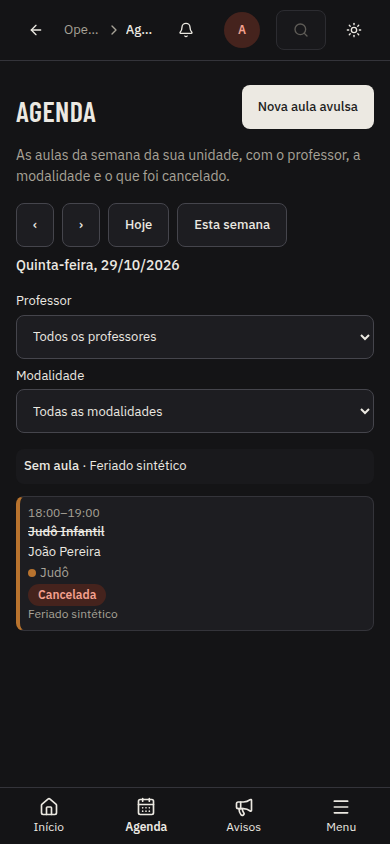
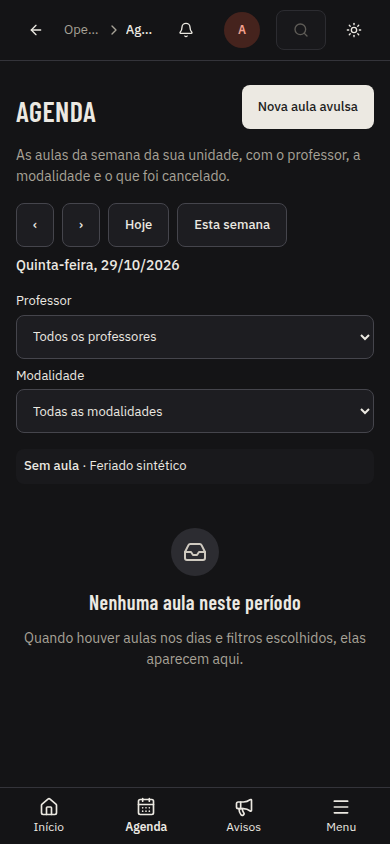
#442: MSW: agenda do Professor devolve todas as aulas da unidade (#510)

Changed region(s): [[0.0308, 0.5853, 0.9538, 0.8009], [0.4615, 0.6469, 0.5231, 0.6777]]

diff --git a/frontend/src/mocks/handlers.ts b/frontend/src/mocks/handlers.ts
@@ -618,6 +618,9 @@ const mockLesson = (c: MockClass, unit: { id: string; name: string }, date: stri
     canCancel: !cancelled && future,
   };
 };
+// RN-AGE-07: o Professor só alcança a aula em que é o professor, ou da turma da qual é titular ou auxiliar (o do mock é sempre o TEACHER_ANA).
+const teachesLesson = (klass: MockClass | null, teacherId: string) =>
+  teacherId === TEACHER_ANA || (!!klass && (klass.head === TEACHER_ANA || klass.assistants.includes(TEACHER_ANA)));
 const classFor = (id: string) => {
   if (!loggedIn) return unauthenticated();
   const role = activeRole();
@@ -633,6 +636,7 @@ const lessonView = (id: string) => {
   if (adhoc) {
     const today = todayLocal();
     const { canEdit, canCancel, ...lesson } = applyEdit(adhocLesson(adhoc, today));
+    if (role === "TEACHER" && !teachesLesson(null, lesson.teacher.id)) return error(404, "NOT_FOUND", "Não encontrado.");
     const visible = adhoc.visibilityClassId ? mockClasses.find((k) => k.id === adhoc.visibilityClassId) : undefined;
     const detail = {
       ...lesson,
@@ -641,8 +645,8 @@ const lessonView = (id: string) => {
       activeStudents: 0,
       trialClasses: 0,
       groupLink: null,
-      canEdit: role === "TEACHER" ? false : canEdit,
-      canCancel: role === "TEACHER" ? false : canCancel,
+      canEdit,
+      canCancel,
       canViewClass: false,
       followingEdited: 0,
     };
@@ -656,6 +660,7 @@ const lessonView = (id: string) => {
   const now = new Date();
   const today = `${now.getFullYear()}-${String(now.getMonth() + 1).padStart(2, "0")}-${String(now.getDate()).padStart(2, "0")}`;
   const { canEdit, canCancel, ...lesson } = applyEdit(mockLesson(c, unit, m[2], slot[0], slot[1], slot[2], today));
+  if (role === "TEACHER" && !teachesLesson(c, lesson.teacher.id)) return error(404, "NOT_FOUND", "Não encontrado.");
   const detail = {
     ...lesson,
     visibilityClass: null,
@@ -663,8 +668,8 @@ const lessonView = (id: string) => {
     activeStudents: 0,
     trialClasses: 0,
     groupLink: c.groupLink ?? null,
-    canEdit: role === "TEACHER" ? false : canEdit,
-    canCancel: role === "TEACHER" ? false : canCancel,
+    canEdit,
+    canCancel,
     canViewClass: role !== "TEACHER",
     // RN-AGE-04: edições à mão (ainda agendadas) das aulas seguintes da turma, que "esta e as seguintes" substituiria.
     followingEdited: [...lessonEdits.entries()].filter(([key, e]) => key.startsWith(`${c.id}-`) && !e.cancelCode && key.slice(c.id.length + 1, c.id.length + 11) > m[2]).length,
@@ -3001,6 +3006,7 @@ export const routes: Route[] = [
           for (const [wd, startsAt, endsAt] of c.schedule.filter(([d]) => d === weekday)) {
             const lesson = applyEdit(mockLesson(c, unit, date, wd, startsAt, endsAt, today));
             if ((teacherId && lesson.teacher.id !== teacherId) || (modalityId && lesson.modality.id !== modalityId)) continue;
+            if (role === "TEACHER" && !teachesLesson(c, lesson.teacher.id)) continue;
             lessons.push(lesson);
           }
         }
@@ -3008,6 +3014,7 @@ export const routes: Route[] = [
       for (const a of mockAdhoc.filter((x) => x.unitId === unit.id && x.date >= from && x.date <= to)) {
         const lesson = applyEdit(adhocLesson(a, today));
         if ((teacherId && lesson.teacher.id !== teacherId) || (modalityId && lesson.modality.id !== modalityId)) continue;
+        if (role === "TEACHER" && !teachesLesson(null, lesson.teacher.id)) continue;
         lessons.push(lesson);
       }
       const noClassDays = [

diff --git a/frontend/src/mocks/agenda.msw.test.ts b/frontend/src/mocks/agenda.msw.test.ts
@@ -60,6 +60,38 @@ describe("agenda x OpenAPI (RF-AGE-01, CA17)", () => {
   });
 });
 
+describe("agenda do Professor (RN-AGE-07)", () => {
+  const ana = "00000000-0000-0000-0000-000000000501";
+  type L = { id: string; class: { name: string } | null; teacher: { id: string }; canEdit: boolean; canCancel: boolean };
+  const next = () => `from=${addDays(todayIso(), 1)}&to=${addDays(todayIso(), 14)}`;
+  const lessons = async (q = week()): Promise<L[]> => (await (await get(q)).json()).lessons;
+
+  it("Professor lista só as dele; Coordenação e Administrador listam todas", async () => {
+    await login("prof@exemplo.com");
+    const mine = await lessons();
+    expect(mine.length).toBeGreaterThan(0);
+    expect(mine.some((l) => l.class?.name === "Judô Infantil")).toBe(false);
+    expect(mine.every((l) => l.class?.name === "Jiu-Jitsu Adulto" || l.teacher.id === ana)).toBe(true);
+    for (const email of ["ana@exemplo.com", "admin@exemplo.com"]) {
+      await login(email);
+      expect((await lessons()).some((l) => l.class?.name === "Judô Infantil")).toBe(true);
+    }
+  });
+
+  it("detalhe alheio 404, o dele 200 com canEdit e canCancel; filtro por outro professor vem vazio", async () => {
+    await login("ana@exemplo.com");
+    const other = (await lessons(next())).find((l) => l.class?.name === "Judô Infantil")!;
+    await login("prof@exemplo.com");
+    const own = (await lessons(next())).find((l) => l.canEdit)!;
+    expect(own.canCancel).toBe(true);
+    expect((await fetch(`/api/v1/agenda/lessons/${other.id}`)).status).toBe(404);
+    const res = await fetch(`/api/v1/agenda/lessons/${own.id}`);
+    expect(res.status).toBe(200);
+    expect(await res.json()).toMatchObject({ canEdit: true, canCancel: true });
+    expect(await lessons(`${next()}&teacherId=00000000-0000-0000-0000-0000000009ff`)).toEqual([]);
+  });
+});
+
 describe("painel da aula x OpenAPI (RF-AGE-02)", () => {
   const lessonOf = async (
     pick: (l: { substitute: boolean }) => boolean = () => true,
@@ -83,7 +115,7 @@ describe("painel da aula x OpenAPI (RF-AGE-02)", () => {
 
   it("Coordenador: corpo no formato do contrato; titular só na substituição; Professor sem canViewClass", async () => {
     await login("ana@exemplo.com");
-    const plain = await lessonOf((l) => !l.substitute);
+    const plain = await lessonOf((l) => !l.substitute && (l as unknown as { class: { name: string } }).class?.name === "Jiu-Jitsu Adulto");
     const res = await fetch(`/api/v1/agenda/lessons/${plain.id}`);
     expect(res.status).toBe(200);
     const detail = await res.json();

diff --git a/specs/itens/442-msw-agenda-professor.md b/specs/itens/442-msw-agenda-professor.md
@@ -1,0 +1,84 @@
+# 442 — MSW: agenda do Professor devolve todas as aulas da unidade
+
+Origem: issue #442 (Sprint 10.5, auditoria de telas do canvas, M85 / F1-06); RN-AGE-07 em `docs/especificacao/06-turmas-e-agenda.md`; tabela de permissões em `02-contas-e-acesso.md`. Branch: `item/442-msw-agenda-professor`.
+
+## 1. Objetivo
+
+O mock (MSW) passa a se comportar como o back-end: o Professor vê na agenda só as aulas em que é o professor da aula, o titular da turma ou auxiliar dela, e só nessas pode editar ou cancelar. Item técnico, só mock e teste; nenhuma regra de produto muda.
+
+Fora do escopo: back-end (já filtra em `Agenda.java`), o `POST /agenda/lessons` do mock (continua 403 para o Professor), tela da agenda, OpenAPI.
+
+## 2. Requisitos
+
+- R1: `GET /agenda` com papel Professor devolve só as aulas "dele" (professor da aula, titular da turma ou auxiliar da turma é o professor logado); os demais papéis recebem a lista inteira como hoje.
+- R2: `GET /agenda/lessons/{id}` de aula que não é do Professor devolve 404; Coordenador e Administrador não mudam.
+- R3: `canEdit` e `canCancel` do Professor só podem ser `true` nas aulas dele (e seguem as demais condições da aula, como estar agendada).
+- R4: o caso visual `moldura-professor` tem a referência regerada, mostrando só as aulas dele.
+
+## 3. Critérios de aceite
+
+- CA1 (R1): dado `prof@exemplo.com` (Ana, titular de "Jiu-Jitsu Adulto" e substituta/auxiliar nas demais regras do mock), quando lista a agenda de uma semana, então toda aula devolvida é de turma em que Ana é titular ou auxiliar, ou tem Ana como professor da aula, e "Judô Infantil" (titular João, sem auxiliares) não aparece.
+- CA2 (R1): dado `ana@exemplo.com` (Coordenação) e `admin@exemplo.com`, quando listam a mesma semana, então recebem as aulas de todas as turmas da unidade, inclusive "Judô Infantil".
+- CA3 (R2): dado `prof@exemplo.com`, quando abre `/agenda/lessons/{id}` de uma aula de "Judô Infantil", então 404; de uma aula dele, 200.
+- CA4 (R3): dado `prof@exemplo.com`, quando lista ou abre aula futura agendada dele, então `canEdit` e `canCancel` são `true`; aula alheia não é alcançável (CA1, CA3).
+- CA5 (R1): dado `prof@exemplo.com`, quando filtra por `teacherId` de outro professor, então a lista vem vazia (o filtro só estreita).
+- CA6 (R4): dado o teste visual, quando se regera só `moldura-professor`, então o diff mostra apenas aulas a menos.
+
+## 4. Plano técnico
+
+- Dados: não muda.
+- API: não muda o contrato; só o mock. `GET /agenda` e `GET /agenda/lessons/{id}` filtram por professor logado.
+- Interface: não muda código de tela. O botão "Nova aula avulsa" segue como está (D1).
+- Segurança: espelha a regra do servidor; a permissão continua conferida no back-end.
+- Arquivos:
+  - `frontend/src/mocks/handlers.ts`: criar um helper `teachesLesson(klass: MockClass | null, teacherId)` perto de `mockLesson` (linha ~596): `klass ? klass.head === ME || klass.assistants.includes(ME) : false` combinado com `lesson.teacher.id === ME`, com `ME = TEACHER_ANA` (id que o mock já usa para o Professor, ver linhas 1137, 1699, 3615). No resolver `/agenda` (linha ~2972) filtrar `lessons` (turmas e avulsas) quando `role === "TEACHER"`. Em `lessonView` (linha ~628) devolver 404 quando `role === "TEACHER"` e a aula não é dele; trocar `canEdit: role === "TEACHER" ? false : canEdit` (e `canCancel`) por `canEdit` direto, já que só aula dele chega ali. Lembrar que a lista também devolve `canEdit`/`canCancel` pelo `mockLesson`/`adhocLesson`, que já não dependem do papel.
+  - `frontend/src/mocks/agenda.msw.test.ts`: novos casos e ajuste do caso existente "titular só na substituição; Professor sem canViewClass" (hoje usa `plain`, que pode ser de outro professor e passaria a dar 404; passar a usar uma aula dele).
+  - `frontend/visual/referencias/moldura-professor-*.png` (4 arquivos): regerar só este caso.
+- Reuso: `TEACHER_ANA`, `activeRole`, `classRow`, `mockLesson`, `adhocLesson`, `lessonView`; os helpers `login`, `get`, `week` do teste.
+- Riscos: outros testes (unitários da agenda no front, e2e `@critical`, `varios@exemplo.com` com vínculo 13 como Professor) que contam com o Professor vendo tudo ou com `canEdit` falso; `npm test` e `npm run e2e` mostram. A semana corrente tem hoje como dia cancelado; usar semana seguinte nos testes que precisam de `canEdit`.
+
+## 5. Tarefas
+
+- [x] T1: filtro por professor em `GET /agenda` e `GET /agenda/lessons/{id}` e `canEdit`/`canCancel` pelo dono da aula — cobre CA1, CA2, CA3, CA4, CA5 — prova: `cd frontend && npx vitest run src/mocks/agenda.msw.test.ts`
+- [x] T2: testes novos (prof lista só as dele; ana e admin listam todas; detalhe alheio 404; canEdit dele true; filtro por outro professor vazio) e ajuste do caso existente; conferir que falham sem a correção — cobre CA1 a CA5 — prova: mesma classe de teste
+- [x] T3: rodar `npm test` e `npm run lint && npm run typecheck`; corrigir testes do front que dependiam do Professor ver tudo — não cobre critério: regressão do mock — prova: `cd frontend && npm test`
+- [x] T4: regerar só `moldura-professor` e conferir o diff — cobre CA6 — prova: `cd frontend && npm run test:visual:docker -- --update-snapshots -g moldura-professor`
+
+## 6. Decisões
+
+- D1: o `POST /agenda/lessons` do mock continua 403 para o Professor. A issue pede só os itens 1 a 5 e o botão é decisão da tela; mudar o POST seria ampliar o escopo. Alternativa: liberar aula avulsa dele no mock (RN-AGE-07), sugerida como item à parte se a tela precisar.
+- D2: "dele" no mock é sempre `TEACHER_ANA`, qualquer login com papel Professor (inclusive `varios@` no vínculo 13), como os demais handlers do mock já fazem.
+- Suposição: o botão "Nova aula avulsa" já aparece para o Professor sem depender de `canEdit` de aula; se não aparecer, é item de tela, não deste.
+
+## Construção
+
+- T1 — arquivos: `frontend/src/mocks/handlers.ts` (helper `teachesLesson`; filtro em `GET /agenda` para turmas e avulsas; 404 em `lessonView`; `canEdit`/`canCancel` sem forçar `false` para Professor) — prova: `npx vitest run src/mocks/agenda.msw.test.ts` → 16 passam
+- T2 — arquivos: `frontend/src/mocks/agenda.msw.test.ts` (2 casos novos no describe "agenda do Professor (RN-AGE-07)"; caso existente passa a usar aula de "Jiu-Jitsu Adulto") — prova: mesma classe → 16 passam. Falha sem a correção não foi rodada à parte (sem stash permitido); o caso "Judô Infantil não aparece" só passa com o filtro.
+- T3 — prova: `npm test` → 192 arquivos, 1905 testes passam; `npm run lint` limpo; `npm run typecheck` limpo (após ajuste de cast no teste)
+- T4 — arquivos: `frontend/visual/referencias/moldura-professor-{1440,390}-{claro,escuro}.png` — prova: `npm run test:visual:docker -- --update-snapshots -g moldura-professor` → 4 passam; 1440 claro conferido: só Jiu-Jitsu Adulto (seg e qua)
+Regressão: `npm test`, lint e typecheck verdes. `npm run e2e` e `build` não rodados nesta sessão.
+Desvios: nenhum.
+
+## Verificação
+
+### Rodada 1 — OK — 2026-10-30, estado e7d92ca93d56672740543048aab0886780ca9c2a
+
+| Critério | Status | Evidência |
+|---|---|---|
+| CA1 | PASSOU | `agenda.msw.test.ts` "Professor lista só as dele": sem Judô Infantil, só Jiu-Jitsu ou professor Ana; 16 passam |
+| CA2 | PASSOU | mesmo caso: ana e admin veem Judô Infantil |
+| CA3 | PASSOU | caso "detalhe alheio 404, o dele 200"; `lessonView` filtra por `teachesLesson` |
+| CA4 | PASSOU | mesmo caso: `canEdit`/`canCancel` true na lista e no detalhe |
+| CA5 | PASSOU | mesmo caso: `teacherId` de outro professor devolve `[]` |
+| CA6 | PASSOU | `moldura-professor-1440-claro.png` aberto: só 2 aulas de Jiu-Jitsu Adulto (seg, qua); demais 3 PNGs regerados (não abertos) |
+
+Comandos: `npx vitest run src/mocks/agenda.msw.test.ts` 16 ok; `npm test` 1905 ok; `npm run lint` e `typecheck` limpos; `npm run e2e` 81 ok. Build, test:visual:docker e comparação canvas não rodados (item técnico, sem tela alterada).
+Achados:
+- sugestão, código, `agenda.msw.test.ts` — o teste de CA1 aceita `teacher.id === ana` OU Jiu-Jitsu, e não prova separadamente o caso de auxiliar; sem impacto.
+
+## Entrega
+
+- O que muda: o mock (`frontend/src/mocks/handlers.ts`) filtra `GET /agenda` e `GET /agenda/lessons/{id}` pelo professor logado; `canEdit` e `canCancel` do Professor só são `true` nas aulas dele. Teste em `frontend/src/mocks/agenda.msw.test.ts` (16 casos passam).
+- Referências `moldura-professor` (1440 e 390, claro e escuro) regeradas; só a `1440-claro` foi aberta e conferida, as outras três não.
+- Verificado (rodada 1, OK): `npm test` 1905 ok, `npm run lint` e `typecheck` limpos, `npm run e2e` 81 ok.
+- Limitações: `build`, `test:visual:docker` e comparação com o canvas não rodados (item técnico, sem tela nova).

diff --git a/specs/backlog.md b/specs/backlog.md
@@ -146,7 +146,7 @@ Dependências: cada issue declara apenas dependência de sprint ("Depende de: Sp
 | 448 | Técnica · Captura do teste visual com o navegador em pt-BR (antes da Fase 2) | issue #448 | Sprint 10.5 | — | agente | feito |
 | 435 | Comparação automática com o canvas e cobertura do teste visual | issue #435 | Sprint 10.5 | #448 | agente | feito |
 | 441 | Revogar uso de imagem no portal sem confirmação | issue #441 | Sprint 10.5 | — | agente | feito |
-| 442 | MSW: agenda do Professor devolve todas as aulas da unidade | issue #442 | Sprint 10.5 | — | agente | a fazer |
+| 442 | MSW: agenda do Professor devolve todas as aulas da unidade | issue #442 | Sprint 10.5 | — | agente | feito |
 | 443 | Professor chega à ficha do aluno pela aula (com a permissão "ver ficha do aluno") | issue #443 | Sprint 10.5 | — | agente | a fazer |
 | 444 | Gerar códigos de reserva sem a confirmação de senha e código | issue #444 | Sprint 10.5 | — | agente | a fazer |
 | 445 | Login travado devolve o horário de liberação (429) | issue #445 | Sprint 10.5 | — | agente | a fazer |
